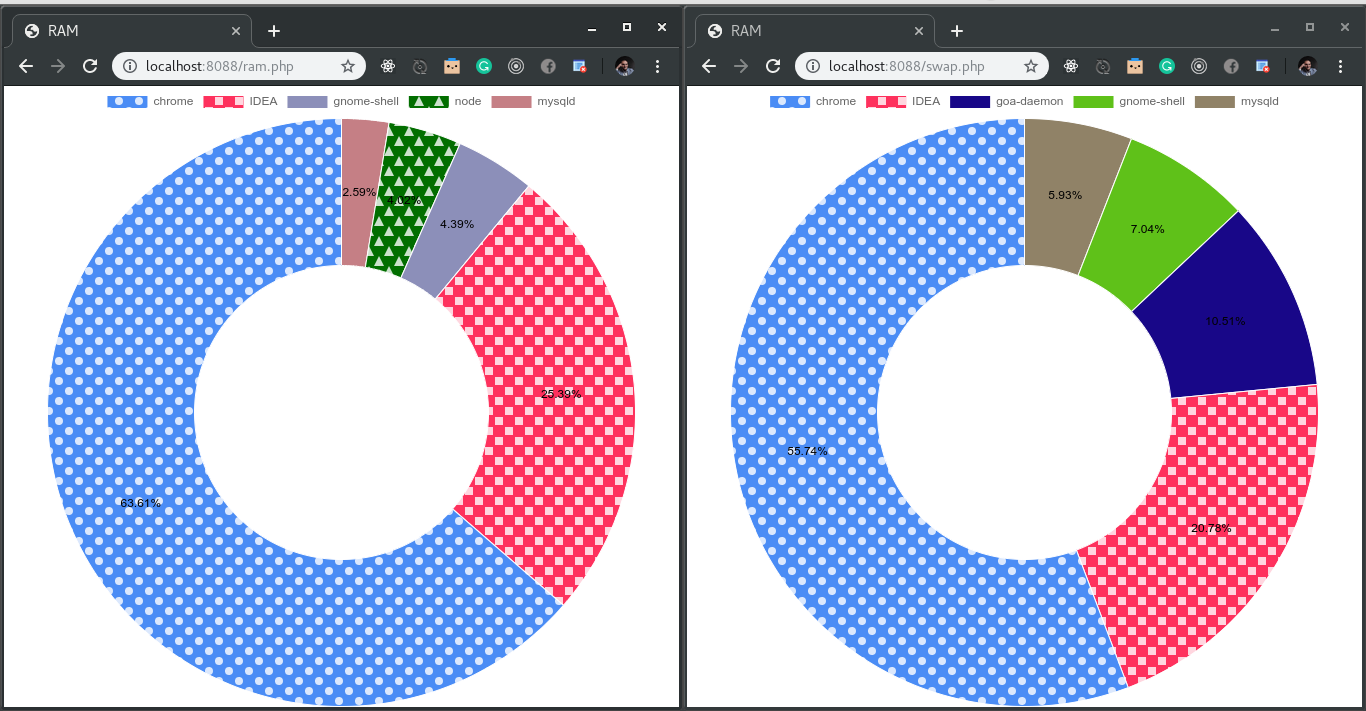
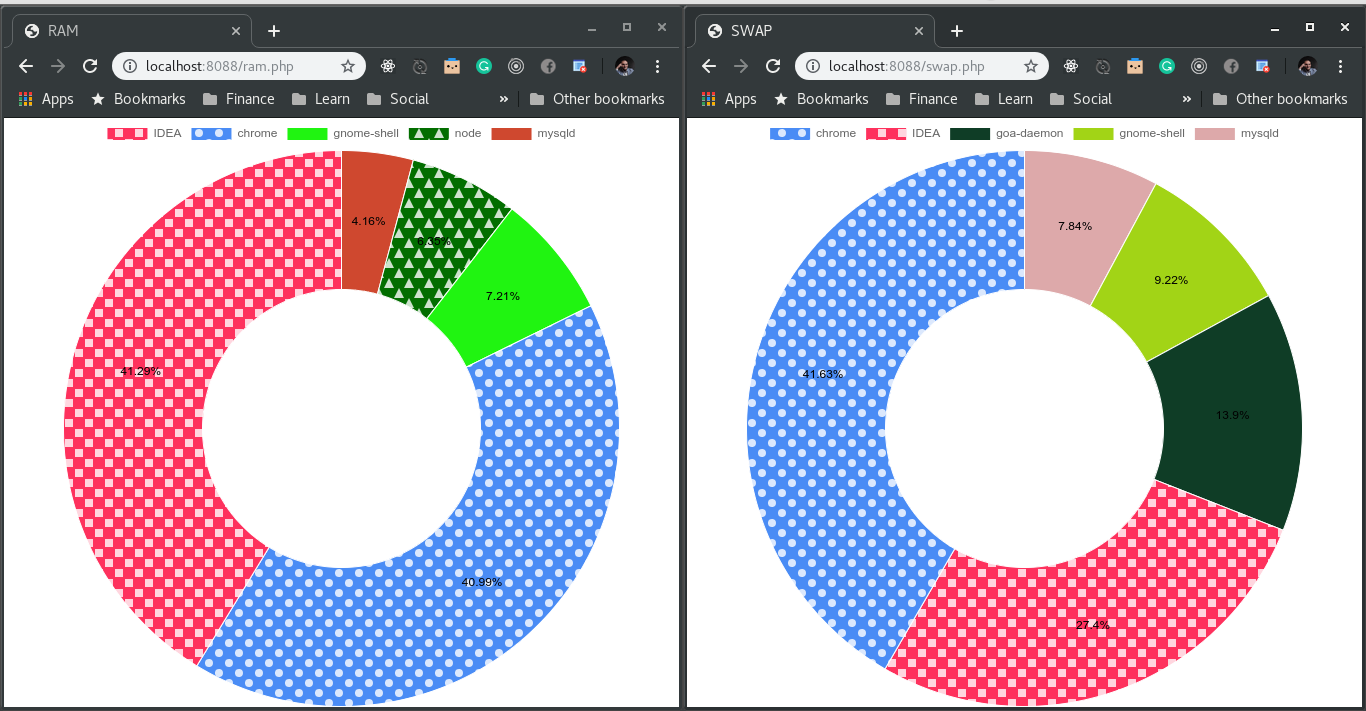
swap fix, demo update

diff --git a/swap.php b/swap.php
@@ -94,7 +94,7 @@ foreach ($matches as $match) {
     <meta name="viewport"
           content="width=device-width, user-scalable=no, initial-scale=1.0, maximum-scale=1.0, minimum-scale=1.0">
     <meta http-equiv="X-UA-Compatible" content="ie=edge">
-    <title>RAM</title>
+    <title>SWAP</title>
     <script src="https://cdnjs.cloudflare.com/ajax/libs/Chart.js/2.8.0/Chart.bundle.min.js"></script>
     <script src="https://cdn.jsdelivr.net/npm/patternomaly@1.3.2/dist/patternomaly.min.js"></script>
     <script src="https://cdn.jsdelivr.net/gh/emn178/chartjs-plugin-labels/src/chartjs-plugin-labels.js"></script>
